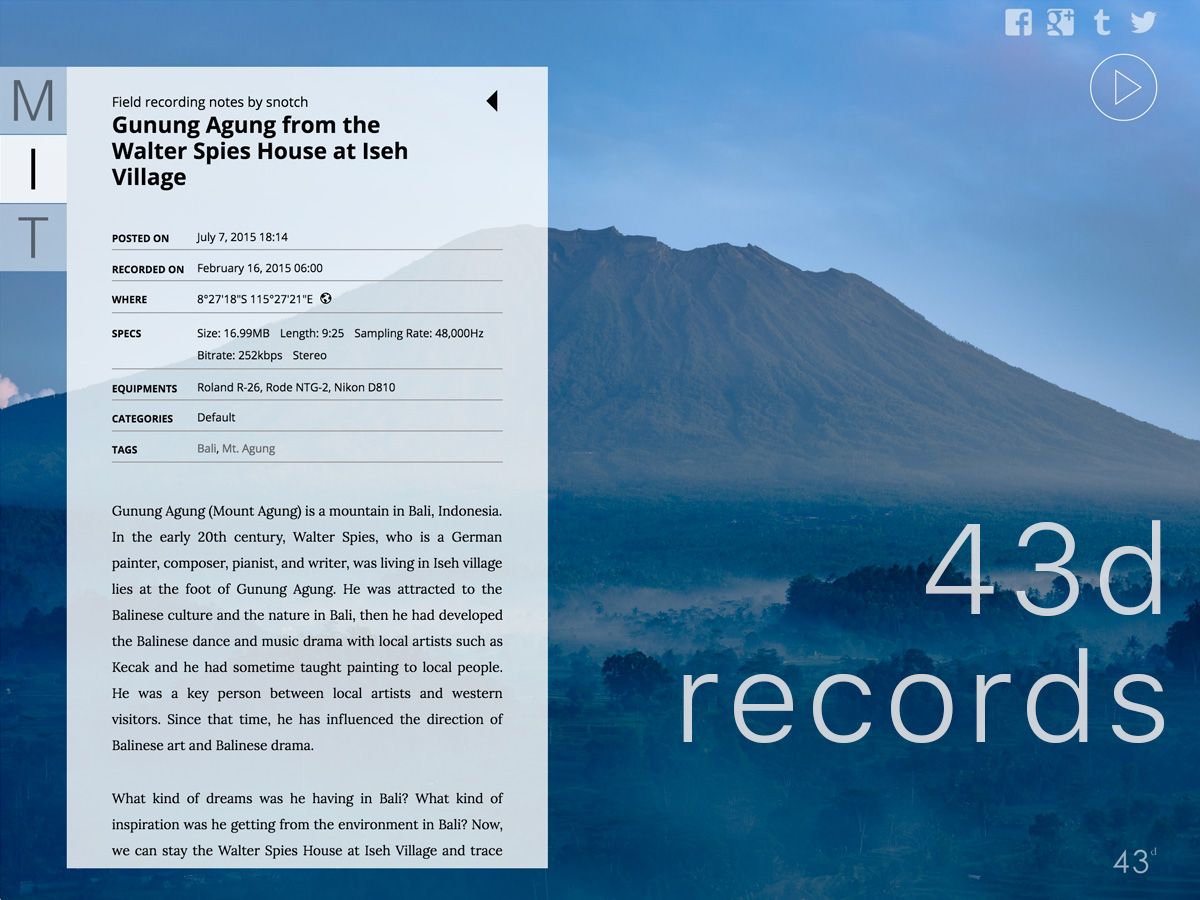
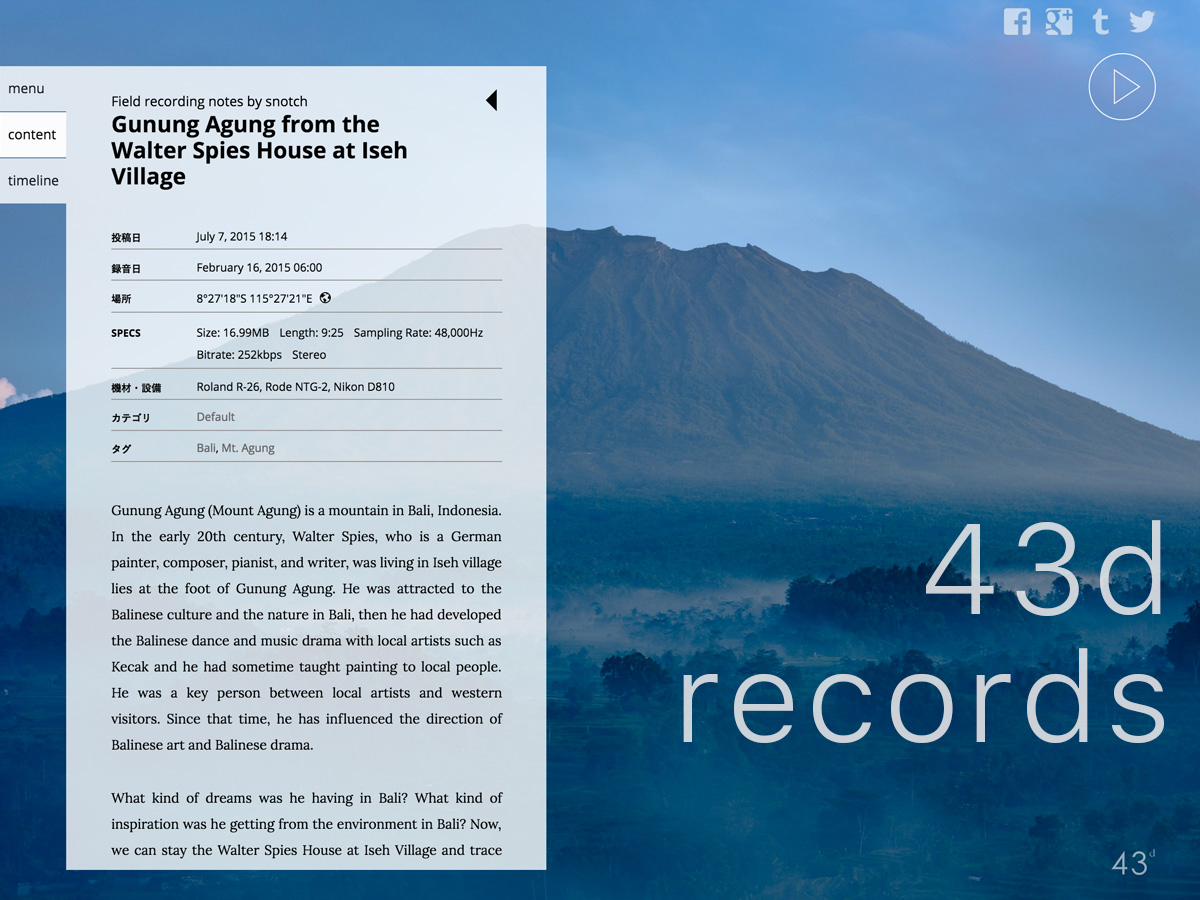
New version of 43d records - 0.9.4

diff --git a/style.min.css b/style.min.css
@@ -1,1 +1,1 @@
-@charset "UTF-8";@import url(//fonts.googleapis.com/css?family=Open+Sans:700,300,400);@import url(//fonts.googleapis.com/css?family=Lora:400,700,400italic,700italic);html{font-size:3rem}body{font-family:'Open Sans',Helvetica,Arial,"游ゴシック","YuGothic","ヒラギノ角ゴ ProN W3","Hiragino Kaku Gothic ProN","メイリオ",Meiryo,Osaka,"ＭＳ Ｐゴシック","MS PGothic",sans-serif;word-wrap:break-word}body.error404{padding:4rem}p{line-height:1.2rem;text-align:justify;text-justify:inter-ideograph}.p43d_records_show{background-size:cover}.p43d_records_show #main_menu{position:fixed;z-index:100;list-style:none;margin:0;padding:0;left:0;top:3rem}.p43d_records_show #main_menu li{width:3rem;height:3rem;margin:0 0 1px 0;position:relative;cursor:pointer}.p43d_records_show #main_menu li img{width:100%;height:100%;position:absolute;-moz-opacity:.5;-khtml-opacity:.5;-webkit-opacity:.5;opacity:.5;-ms-filter:alpha(opacity=50);filter:alpha(opacity=50);-moz-transition-duration:.2s;-webkit-transition-duration:.2s;-o-transition-duration:.2s;transition-duration:.2s}.p43d_records_show #main_menu li:hover img,.p43d_records_show #main_menu li.active img{-moz-opacity:1;-khtml-opacity:1;-webkit-opacity:1;opacity:1;-ms-filter:alpha(opacity=100);filter:alpha(opacity=100)}.p43d_records_show #main_menu li::before{content:"";margin:0;width:100%;height:100%;position:absolute;background-color:#fff;-moz-opacity:.5;-khtml-opacity:.5;-webkit-opacity:.5;opacity:.5;-ms-filter:alpha(opacity=50);filter:alpha(opacity=50);-moz-transition-duration:.2s;-webkit-transition-duration:.2s;-o-transition-duration:.2s;transition-duration:.2s}.p43d_records_show #main_menu li:hover::before,.p43d_records_show #main_menu li.active::before{-moz-opacity:.9;-khtml-opacity:.9;-webkit-opacity:.9;opacity:.9;-ms-filter:alpha(opacity=90);filter:alpha(opacity=90)}.p43d_records_show #social{position:fixed;top:.4rem;right:2rem;z-index:600;list-style:none;margin:0;padding:0}.p43d_records_show #social li{width:1.2rem;height:1.2rem;cursor:pointer;display:inline-block;margin-left:.4rem;position:relative}.p43d_records_show #social li a{-moz-opacity:.6;-khtml-opacity:.6;-webkit-opacity:.6;opacity:.6;-ms-filter:alpha(opacity=60);filter:alpha(opacity=60);-moz-transition-duration:.2s;-webkit-transition-duration:.2s;-o-transition-duration:.2s;transition-duration:.2s}.p43d_records_show #social li a img{width:100%;height:100%;position:absolute}.p43d_records_show #social li a:hover{-moz-opacity:1;-khtml-opacity:1;-webkit-opacity:1;opacity:1;-ms-filter:alpha(opacity=100);filter:alpha(opacity=100)}.p43d_records_show #ctrl_btns{position:fixed;top:2.4rem;right:2rem;z-index:600;list-style:none;margin:0;padding:0}.p43d_records_show #ctrl_btns li{width:3rem;height:3rem;cursor:pointer;-moz-transition-duration:0;-webkit-transition-duration:0;-o-transition-duration:0;transition-duration:0}.p43d_records_show #ctrl_btns li img{width:100%;height:100%;position:absolute}.p43d_records_show #ctrl_btns li img.default{display:block}.p43d_records_show #ctrl_btns li img.over{display:none}.p43d_records_show #ctrl_btns li:hover img.default{display:none}.p43d_records_show #ctrl_btns li:hover img.over{display:block}.p43d_records_show #bg{margin:0;position:fixed;top:0;left:0;right:0;bottom:0;background-repeat:no-repeat;background-size:cover;background-position:center;z-index:5}.p43d_records_show p#logo_43d{position:fixed;right:2rem;bottom:1rem;margin:0;z-index:100}.p43d_records_show p#logo_43d a{-moz-opacity:.6;-khtml-opacity:.6;-webkit-opacity:.6;opacity:.6;-ms-filter:alpha(opacity=60);filter:alpha(opacity=60);-moz-transition-duration:.2s;-webkit-transition-duration:.2s;-o-transition-duration:.2s;transition-duration:.2s}.p43d_records_show p#logo_43d a img{width:2rem;height:auto}.p43d_records_show p#logo_43d a:hover{-moz-opacity:1;-khtml-opacity:1;-webkit-opacity:1;opacity:1;-ms-filter:alpha(opacity=100);filter:alpha(opacity=100)}.p43d_records_show #info_content{z-index:500;position:fixed;top:3rem;bottom:1.5rem;left:3rem;width:40%;min-width:360px;overflow:auto;display:block;-moz-opacity:0;-khtml-opacity:0;-webkit-opacity:0;opacity:0;-ms-filter:alpha(opacity=0);filter:alpha(opacity=0)}.p43d_records_show #info_content .close_btn{position:absolute;margin:0;width:1rem;height:1rem;top:1rem;right:2rem;cursor:pointer;z-index:610;-moz-opacity:0;-khtml-opacity:0;-webkit-opacity:0;opacity:0;-ms-filter:alpha(opacity=0);filter:alpha(opacity=0)}.p43d_records_show #info_content .close_btn img{width:100%;height:100%}.p43d_records_show #info_content .close_btn:hover img{-moz-opacity:.6;-khtml-opacity:.6;-webkit-opacity:.6;opacity:.6;-ms-filter:alpha(opacity=60);filter:alpha(opacity=60)}.p43d_records_show #info_content .outer_container{position:relative}.p43d_records_show #info_content .bg{position:absolute;top:0;left:0;bottom:0;right:0;background-color:#fff;-moz-opacity:.8;-khtml-opacity:.8;-webkit-opacity:.8;opacity:.8;-ms-filter:alpha(opacity=80);filter:alpha(opacity=80);z-index:-1}.p43d_records_show #info_content .inner_container{padding:1rem 2rem 2rem;-moz-opacity:0;-khtml-opacity:0;-webkit-opacity:0;opacity:0;-ms-filter:alpha(opacity=0);filter:alpha(opacity=0)}.p43d_records_show #info_content h1{font-weight:normal;font-size:.6rem;margin:.2rem 1rem .1rem 0;line-height:1.2}.p43d_records_show #info_content h1 a{text-decoration:none;color:#000}.p43d_records_show #info_content h1 a:hover{background-color:#AAA}.p43d_records_show #info_content h2{margin:0 0 1.8rem;padding-right:2rem;font-size:1rem;line-height:1.2}.p43d_records_show #info_content h3,.p43d_records_show #info_content h4{margin:0 0 1.4rem;font-size:.85rem;line-height:1.2}.p43d_records_show #info_content h5,.p43d_records_show #info_content h6{margin:0 0 1.2rem;font-size:.7rem;line-height:1.2}.p43d_records_show #info_content p.info span.label{position:absolute;left:0;padding:.1rem .5rem 0 0;font-size:.4rem;font-weight:bold;text-transform:uppercase}.p43d_records_show #info_content p.info{position:relative;margin:.5rem 0 0;padding:0 0 .3rem 3.8rem;border-bottom:1px solid #999;font-family:'Open Sans',Helvetica,Arial,"游ゴシック","YuGothic","ヒラギノ角ゴ ProN W3","Hiragino Kaku Gothic ProN","メイリオ",Meiryo,Osaka,"ＭＳ Ｐゴシック","MS PGothic",sans-serif;font-size:.5rem;line-height:1.1;vertical-align:top}.p43d_records_show #info_content p.info a.icon_link{display:inline-block;line-height:0;padding:0 0 0 .2rem}.p43d_records_show #info_content p.info a.icon_link:hover{background-color:transparent}.p43d_records_show #info_content p.info a{color:#000;text-decoration:none}.p43d_records_show #info_content p.info a:visited{color:#666}.p43d_records_show #info_content p.info a:hover{color:#000;background-color:#AAA}.p43d_records_show #info_content p.info img.geo_icon{width:.5rem;height:.5rem;margin:0;padding:0}.p43d_records_show #info_content dl.specs{margin:.2rem 0 0;padding:0 0 .3rem;line-height:1;border-bottom:1px solid #999}.p43d_records_show #info_content dl.specs dt{padding-top:.45rem;font-size:.4rem;font-weight:bold;float:left}.p43d_records_show #info_content dl.specs dd{margin-left:3.8rem}.p43d_records_show #info_content dl.specs dd ul{list-style:none;margin:0;padding:0}.p43d_records_show #info_content dl.specs dd ul li{display:inline-block;margin:0 .2rem 0 0;font-size:.5rem}.p43d_records_show #info_content div.content{margin:1.6rem 0}.p43d_records_show #info_content div.content p,.p43d_records_show #info_content div.content dt,.p43d_records_show #info_content div.content dd,.p43d_records_show #info_content div.content li{font-size:.6rem;font-family:Lora,"游明朝体","Yu Mincho",YuMincho,"ヒラギノ明朝 ProN W3","Hiragino Mincho Pro","HG明朝E",serif}.p43d_records_show #info_content div.content p{margin:1.2rem 0}.p43d_records_show #info_content div.content .wp-caption p{margin:.2rem 0 0}.p43d_records_show #info_content div.content li{margin:.3rem 0}.p43d_records_show #info_content div.content table,.p43d_records_show #info_content div.content td,.p43d_records_show #info_content div.content th{border:1px solid #d1d1d1}.p43d_records_show #info_content div.content table{margin:1.4rem 0;border-width:1px 0 0 1px;border-collapse:separate}.p43d_records_show #info_content div.content th{padding:.2rem .4rem;font-size:.6rem;font-weight:bold;font-family:'Open Sans',Helvetica,Arial,"游ゴシック","YuGothic","ヒラギノ角ゴ ProN W3","Hiragino Kaku Gothic ProN","メイリオ",Meiryo,Osaka,"ＭＳ Ｐゴシック","MS PGothic",sans-serif;border-width:0 1px 1px 0}.p43d_records_show #info_content div.content td{padding:.2rem .4rem;font-size:.6rem;font-family:Lora,"游明朝体","Yu Mincho",YuMincho,"ヒラギノ明朝 ProN W3","Hiragino Mincho Pro","HG明朝E",serif;border-width:0 1px 1px 0}.p43d_records_show #info_content div.content pre{font-size:.6rem;font-family:'Open Sans',Helvetica,Arial,"游ゴシック","YuGothic","ヒラギノ角ゴ ProN W3","Hiragino Kaku Gothic ProN","メイリオ",Meiryo,Osaka,"ＭＳ Ｐゴシック","MS PGothic",sans-serif}.p43d_records_show #info_content div.content address{font-size:.6rem;font-style:italic;font-family:'Open Sans',Helvetica,Arial,"游ゴシック","YuGothic","ヒラギノ角ゴ ProN W3","Hiragino Kaku Gothic ProN","メイリオ",Meiryo,Osaka,"ＭＳ Ｐゴシック","MS PGothic",sans-serif}.p43d_records_show #info_content div.content img,.p43d_records_show #info_content div.content video,.p43d_records_show #info_content div.content iframe{max-width:100%}.p43d_records_show #info_content div.content img{height:auto}.p43d_records_show #info_content div.content div.post_link_container{margin-top:1rem;border-top:.3rem solid #AAA}.p43d_records_show #info_content div.content div.post_link_container p.post_link{margin:.6rem 0;line-height:1.2;padding:.7rem 0 0 .5rem;position:relative}.p43d_records_show #info_content div.content div.post_link_container p.post_link span{display:block;position:absolute;top:0;left:0;font-family:'Open Sans',Helvetica,Arial,"游ゴシック","YuGothic","ヒラギノ角ゴ ProN W3","Hiragino Kaku Gothic ProN","メイリオ",Meiryo,Osaka,"ＭＳ Ｐゴシック","MS PGothic",sans-serif;font-size:.5rem;font-weight:bold}.p43d_records_show #info_content div.content div.post_link_container p.post_link a{color:#000;text-decoration:none}.p43d_records_show #info_content div.content div.post_link_container p.post_link a:visited{color:#666}.p43d_records_show #info_content div.content div.post_link_container p.post_link a:hover{color:#000;background-color:#AAA}.p43d_records_show #info_content div.content h3#comments{font-size:.8rem;line-height:1.2;padding-top:.4rem;border-top:.3rem solid #AAA}.p43d_records_show #info_content div.content ol.commentlist{margin:0;font-size:.7rem}.p43d_records_show #info_content div.content ol.commentlist div.comment-author,.p43d_records_show #info_content div.content ol.commentlist div.comment-meta,.p43d_records_show #info_content div.content ol.commentlist div.reply{font-size:.6rem;margin:.1rem 0;line-height:1}.p43d_records_show #info_content div.content ol.commentlist li{margin-bottom:1rem;padding-bottom:1rem;border-bottom:1px solid #666}.p43d_records_show #info_content div.content ol.commentlist li p{margin:.4rem 0}.p43d_records_show #info_content div.content ol.commentlist li.bypostauthor{display:list-item}.p43d_records_show #info_content div.content div#respond{margin-top:2rem;border-top:.3rem solid #AAA}.p43d_records_show #info_content div.content div#respond h3{font-size:.7rem;line-height:1.2;margin:.6rem 0}.p43d_records_show #info_content div.content div#respond p{font-size:.6rem;margin:.4rem 0}.p43d_records_show #info_content div.content div#respond #commentform label{display:block}.p43d_records_show #info_content div.content div#respond #commentform textarea{max-width:100%;width:100%;height:5rem}.p43d_records_show #info_content div.content div#respond #commentform p input{font-size:.6rem;font-weight:normal;font-family:'Open Sans',Helvetica,Arial,"游ゴシック","YuGothic","ヒラギノ角ゴ ProN W3","Hiragino Kaku Gothic ProN","メイリオ",Meiryo,Osaka,"ＭＳ Ｐゴシック","MS PGothic",sans-serif}.p43d_records_show #menulist{z-index:500;position:fixed;top:3rem;bottom:1.5rem;left:3rem;width:40%;min-width:360px;overflow:auto;display:none}.p43d_records_show #menulist .close_btn{position:absolute;margin:0;width:1rem;height:1rem;top:1rem;right:2rem;cursor:pointer;z-index:610;-moz-opacity:0;-khtml-opacity:0;-webkit-opacity:0;opacity:0;-ms-filter:alpha(opacity=0);filter:alpha(opacity=0)}.p43d_records_show #menulist .close_btn img{width:100%;height:100%}.p43d_records_show #menulist .close_btn:hover img{-moz-opacity:.6;-khtml-opacity:.6;-webkit-opacity:.6;opacity:.6;-ms-filter:alpha(opacity=60);filter:alpha(opacity=60)}.p43d_records_show #menulist .outer_container{position:relative}.p43d_records_show #menulist .bg{position:absolute;top:0;left:0;bottom:0;right:0;width:100%;height:100%;background-color:#fff;-moz-opacity:.8;-khtml-opacity:.8;-webkit-opacity:.8;opacity:.8;-ms-filter:alpha(opacity=80);filter:alpha(opacity=80);z-index:-1}.p43d_records_show #menulist .inner_container{padding:1rem 2rem 2rem;min-height:8rem;-moz-opacity:0;-khtml-opacity:0;-webkit-opacity:0;opacity:0;-ms-filter:alpha(opacity=0);filter:alpha(opacity=0)}.p43d_records_show #menulist h1{font-size:1rem;margin:.2rem 1rem .1rem 0;line-height:1.2}.p43d_records_show #menulist h1 a{text-decoration:none;color:#000}.p43d_records_show #menulist h1 a:hover{background-color:#AAA}.p43d_records_show #menulist h3{margin:1.6rem 0 .4rem;font-size:.8rem;color:#777}.p43d_records_show #menulist p.description{font-size:.6rem;line-height:1.4;color:#555;margin:.2rem 0 1rem}.p43d_records_show #menulist ul#posts_list{list-style:none;margin:0;padding:0}.p43d_records_show #menulist ul#posts_list li{font-size:.6rem;margin-bottom:.4rem}.p43d_records_show #menulist ul#posts_list li span{display:inline-block}.p43d_records_show #menulist ul#posts_list li span.title{display:block;font-family:Lora,"游明朝体","Yu Mincho",YuMincho,"ヒラギノ明朝 ProN W3","Hiragino Mincho Pro","HG明朝E",serif;font-size:.7rem}.p43d_records_show #menulist ul#posts_list li span.title a{color:#000;text-decoration:none}.p43d_records_show #menulist ul#posts_list li span.title a:visited{color:#666}.p43d_records_show #menulist ul#posts_list li span.title a:hover{color:#000;background-color:#AAA}.p43d_records_show #menulist ul#posts_list li span.label{font-weight:bold;font-size:.4rem;padding:0 .2rem 0 0;color:#555}.p43d_records_show #menulist ul#posts_list li span.subinfo{font-size:.5rem;color:#555}.p43d_records_show #menulist p#posts_list_navi{border-top:.3rem solid #AAA}.p43d_records_show #menulist p#posts_list_navi a{display:block;text-decoration:none;font-family:'Open Sans',Helvetica,Arial,"游ゴシック","YuGothic","ヒラギノ角ゴ ProN W3","Hiragino Kaku Gothic ProN","メイリオ",Meiryo,Osaka,"ＭＳ Ｐゴシック","MS PGothic",sans-serif;font-size:.5rem;font-weight:bold}.p43d_records_show #menulist p#posts_list_navi a:hover{text-decoration:underline}.p43d_records_show #menulist p#posts_list_navi a.recent{float:left}.p43d_records_show #menulist p#posts_list_navi a.past{float:right}.p43d_records_show #menulist p#posts_list_navi a.hidden{display:none}.p43d_records_show #menulist ul#static_pages{padding:.5rem 0;border-top:.3rem solid #AAA;list-style:none;margin:1.4rem 0 0}.p43d_records_show #menulist ul#static_pages h3{margin:.2rem 0 .8rem}.p43d_records_show #menulist ul#static_pages ul{padding:0 0 0 1rem}.p43d_records_show #menulist ul#static_pages ul li{font-size:.65rem}.p43d_records_show #menulist ul#static_pages ul li a{color:#000;text-decoration:none !important}.p43d_records_show #menulist ul#static_pages ul li a:visited{color:#666}.p43d_records_show #menulist ul#static_pages ul li a:hover{color:#000;background-color:#AAA}.p43d_records_show #menulist h3.post_categories,.p43d_records_show #menulist h3.post_tags{padding-top:.5rem;border-top:.3rem solid #AAA}.p43d_records_show #menulist p.post_categories,.p43d_records_show #menulist p.post_tags{margin:.4rem 0;font-size:.65rem}.p43d_records_show #menulist p.post_categories a,.p43d_records_show #menulist p.post_tags a{color:#000;text-decoration:none !important}.p43d_records_show #menulist p.post_categories a:visited,.p43d_records_show #menulist p.post_tags a:visited{color:#666}.p43d_records_show #menulist p.post_categories a:hover,.p43d_records_show #menulist p.post_tags a:hover{color:#000;background-color:#AAA}.p43d_records_show #timeline{z-index:500;position:fixed;bottom:3rem;left:2rem;right:2rem;height:3.4rem;overflow:auto;display:none}.p43d_records_show #timeline .bg{position:absolute;top:0;left:0;bottom:0;right:0;width:100%;height:100%;background-color:#fff;-moz-opacity:.6;-khtml-opacity:.6;-webkit-opacity:.6;opacity:.6;-ms-filter:alpha(opacity=60);filter:alpha(opacity=60);z-index:-1}.p43d_records_show #timeline .buttons{position:absolute;top:.3rem;right:.3rem;list-style:none;margin:0;padding:0}.p43d_records_show #timeline .buttons li{width:1.4rem;height:1.4rem;cursor:pointer;margin:0;padding:0}.p43d_records_show #timeline .buttons li img{width:100%;height:100%}.p43d_records_show #timeline .buttons li:hover img{-moz-opacity:.6;-khtml-opacity:.6;-webkit-opacity:.6;opacity:.6;-ms-filter:alpha(opacity=60);filter:alpha(opacity=60)}.p43d_records_show #timeline .if{position:absolute;top:.6rem;right:2.3rem;left:.6rem}.p43d_records_show #timeline .if .cursor{width:1rem;height:1rem;cursor:pointer;margin:0;position:absolute;background-image:url('img/icon_tl_cursor.svg');background-repeat:no-repeat;background-size:contain}.p43d_records_show #timeline .if .cursor:hover{-moz-opacity:.6;-khtml-opacity:.6;-webkit-opacity:.6;opacity:.6;-ms-filter:alpha(opacity=60);filter:alpha(opacity=60)}.p43d_records_show #timeline .if .horizontal_bar{height:2px;background-color:#333;margin:1rem .5rem 0}.p43d_records_show #timeline .if .current_time,.p43d_records_show #timeline .if .total_time{margin:0;font-size:.6rem;position:absolute;top:1.3rem}.p43d_records_show #timeline .if .total_time{right:0}@media(max-width:2880px){html{font-size:2.8rem}}@media(max-width:1920px){html{font-size:2rem}}@media(max-width:1600px){html{font-size:1.6rem}}@media(max-width:1440px){html{font-size:1.4rem}}@media(max-width:1024px){html{font-size:1.25rem}}@media(max-width:768px){.p43d_records_show #ctrl_btns li:hover img.default{display:block}.p43d_records_show #ctrl_btns li:hover img.over{display:none}.p43d_records_show #info_content,.p43d_records_show #menulist{width:100%;bottom:0}}.hidden{display:none}.alignleft{display:inline;float:left;margin-right:1.2rem}.alignright{display:inline;float:right;margin-left:1.2rem}.aligncenter{clear:both;display:block;margin:0 auto}.wp-caption{margin-bottom:1rem;max-width:100%}.wp-caption-text{text-align:center}.page-links{clear:both;font-family:'Open Sans',Helvetica,Arial,"游ゴシック","YuGothic","ヒラギノ角ゴ ProN W3","Hiragino Kaku Gothic ProN","メイリオ",Meiryo,Osaka,"ＭＳ Ｐゴシック","MS PGothic",sans-serif;margin:0 0 1.75rem}.page-links a,.page-links>span{border:1px solid #d1d1d1;display:inline-block;font-size:.7rem;height:1.85rem;line-height:1.69rem;margin-right:.31rem;text-align:center;padding:0 .5rem}.page-links a{background-color:#666;border-color:#666;color:#fff;text-decoration:none}.page-links a:hover,.page-links a:focus{background-color:#222;color:#fff}.page-links>.page-links-title{border:0;color:#1a1a1a;height:auto;margin:0;padding-right:.62rem;width:auto}.gallery-caption{display:block}.sticky{display:block}.bypostauthor{display:block}.screen-reader-text{clip:rect(1px,1px,1px,1px);width:1px;height:1px;overflow:hidden;position:absolute !important}.size-auto,.size-full,.size-large,.size-medium,.size-thumbnail{max-width:100%;height:auto}
+@charset "UTF-8";@import url(//fonts.googleapis.com/css?family=Open+Sans:700,300,400);@import url(//fonts.googleapis.com/css?family=Lora:400,700,400italic,700italic);html{font-size:3rem}body{font-family:'Open Sans',Helvetica,Arial,"游ゴシック","YuGothic","ヒラギノ角ゴ ProN W3","Hiragino Kaku Gothic ProN","メイリオ",Meiryo,Osaka,"ＭＳ Ｐゴシック","MS PGothic",sans-serif;word-wrap:break-word}body.error404{padding:4rem}p{line-height:1.2rem;text-align:justify;text-justify:inter-ideograph}.p43d_records_show{background-size:cover}.p43d_records_show #main_menu{position:fixed;z-index:100;list-style:none;margin:0;padding:0;left:0;top:3rem}.p43d_records_show #main_menu li{width:3rem;height:2rem;margin:0 0 1px 0;position:relative;cursor:pointer;font-size:.6rem;padding:.6rem 0 0 .4rem;color:#000;box-sizing:border-box;background-color:#fff;-moz-opacity:.8;-khtml-opacity:.8;-webkit-opacity:.8;opacity:.8;-ms-filter:alpha(opacity=80);filter:alpha(opacity=80);-moz-transition-duration:.2s;-webkit-transition-duration:.2s;-o-transition-duration:.2s;transition-duration:.2s}.p43d_records_show #main_menu li:hover,.p43d_records_show #main_menu li.active{-moz-opacity:.98;-khtml-opacity:.98;-webkit-opacity:.98;opacity:.98;-ms-filter:alpha(opacity=98);filter:alpha(opacity=98)}.p43d_records_show #social{position:fixed;top:.4rem;right:2rem;z-index:600;list-style:none;margin:0;padding:0}.p43d_records_show #social li{width:1.2rem;height:1.2rem;cursor:pointer;display:inline-block;margin-left:.4rem;position:relative}.p43d_records_show #social li a{-moz-opacity:.6;-khtml-opacity:.6;-webkit-opacity:.6;opacity:.6;-ms-filter:alpha(opacity=60);filter:alpha(opacity=60);-moz-transition-duration:.2s;-webkit-transition-duration:.2s;-o-transition-duration:.2s;transition-duration:.2s}.p43d_records_show #social li a img{width:100%;height:100%;position:absolute}.p43d_records_show #social li a:hover{-moz-opacity:1;-khtml-opacity:1;-webkit-opacity:1;opacity:1;-ms-filter:alpha(opacity=100);filter:alpha(opacity=100)}.p43d_records_show #ctrl_btns{position:fixed;top:2.4rem;right:2rem;z-index:600;list-style:none;margin:0;padding:0}.p43d_records_show #ctrl_btns li{width:3rem;height:3rem;cursor:pointer;-moz-transition-duration:0;-webkit-transition-duration:0;-o-transition-duration:0;transition-duration:0}.p43d_records_show #ctrl_btns li img{width:100%;height:100%;position:absolute}.p43d_records_show #ctrl_btns li img.default{display:block}.p43d_records_show #ctrl_btns li img.over{display:none}.p43d_records_show #ctrl_btns li:hover img.default{display:none}.p43d_records_show #ctrl_btns li:hover img.over{display:block}.p43d_records_show #bg{margin:0;position:fixed;top:0;left:0;right:0;bottom:0;background-repeat:no-repeat;background-size:cover;background-position:center;z-index:5}.p43d_records_show p#logo_43d{position:fixed;right:2rem;bottom:1rem;margin:0;z-index:100}.p43d_records_show p#logo_43d a{-moz-opacity:.6;-khtml-opacity:.6;-webkit-opacity:.6;opacity:.6;-ms-filter:alpha(opacity=60);filter:alpha(opacity=60);-moz-transition-duration:.2s;-webkit-transition-duration:.2s;-o-transition-duration:.2s;transition-duration:.2s}.p43d_records_show p#logo_43d a img{width:2rem;height:auto}.p43d_records_show p#logo_43d a:hover{-moz-opacity:1;-khtml-opacity:1;-webkit-opacity:1;opacity:1;-ms-filter:alpha(opacity=100);filter:alpha(opacity=100)}.p43d_records_show #info_content{z-index:500;position:fixed;top:3rem;bottom:1.5rem;left:3rem;width:40%;min-width:360px;overflow:auto;display:block;-moz-opacity:0;-khtml-opacity:0;-webkit-opacity:0;opacity:0;-ms-filter:alpha(opacity=0);filter:alpha(opacity=0)}.p43d_records_show #info_content .close_btn{position:absolute;margin:0;width:1rem;height:1rem;top:1rem;right:2rem;cursor:pointer;z-index:610;-moz-opacity:0;-khtml-opacity:0;-webkit-opacity:0;opacity:0;-ms-filter:alpha(opacity=0);filter:alpha(opacity=0)}.p43d_records_show #info_content .close_btn img{width:100%;height:100%}.p43d_records_show #info_content .close_btn:hover img{-moz-opacity:.6;-khtml-opacity:.6;-webkit-opacity:.6;opacity:.6;-ms-filter:alpha(opacity=60);filter:alpha(opacity=60)}.p43d_records_show #info_content .outer_container{position:relative}.p43d_records_show #info_content .bg{position:absolute;top:0;left:0;bottom:0;right:0;background-color:#fff;-moz-opacity:.8;-khtml-opacity:.8;-webkit-opacity:.8;opacity:.8;-ms-filter:alpha(opacity=80);filter:alpha(opacity=80);z-index:-1}.p43d_records_show #info_content .inner_container{padding:1rem 2rem 2rem;-moz-opacity:0;-khtml-opacity:0;-webkit-opacity:0;opacity:0;-ms-filter:alpha(opacity=0);filter:alpha(opacity=0)}.p43d_records_show #info_content h1{font-weight:normal;font-size:.6rem;margin:.2rem 1rem .1rem 0;line-height:1.2}.p43d_records_show #info_content h1 a{text-decoration:none;color:#000}.p43d_records_show #info_content h1 a:hover{background-color:#AAA}.p43d_records_show #info_content h2{margin:0 0 1.8rem;padding-right:2rem;font-size:1rem;line-height:1.2}.p43d_records_show #info_content h3,.p43d_records_show #info_content h4{margin:0 0 1.4rem;font-size:.85rem;line-height:1.2}.p43d_records_show #info_content h5,.p43d_records_show #info_content h6{margin:0 0 1.2rem;font-size:.7rem;line-height:1.2}.p43d_records_show #info_content p.info span.label{position:absolute;left:0;padding:.1rem .5rem 0 0;font-size:.4rem;font-weight:bold;text-transform:uppercase}.p43d_records_show #info_content p.info{position:relative;margin:.5rem 0 0;padding:0 0 .3rem 3.8rem;border-bottom:1px solid #999;font-family:'Open Sans',Helvetica,Arial,"游ゴシック","YuGothic","ヒラギノ角ゴ ProN W3","Hiragino Kaku Gothic ProN","メイリオ",Meiryo,Osaka,"ＭＳ Ｐゴシック","MS PGothic",sans-serif;font-size:.5rem;line-height:1.1;vertical-align:top}.p43d_records_show #info_content p.info a.icon_link{display:inline-block;line-height:0;padding:0 0 0 .2rem}.p43d_records_show #info_content p.info a.icon_link:hover{background-color:transparent}.p43d_records_show #info_content p.info a{color:#000;text-decoration:none}.p43d_records_show #info_content p.info a:visited{color:#666}.p43d_records_show #info_content p.info a:hover{color:#000;background-color:#AAA}.p43d_records_show #info_content p.info img.geo_icon{width:.5rem;height:.5rem;margin:0;padding:0}.p43d_records_show #info_content dl.specs{margin:.2rem 0 0;padding:0 0 .3rem;line-height:1;border-bottom:1px solid #999}.p43d_records_show #info_content dl.specs dt{padding-top:.45rem;font-size:.4rem;font-weight:bold;float:left}.p43d_records_show #info_content dl.specs dd{margin-left:3.8rem}.p43d_records_show #info_content dl.specs dd ul{list-style:none;margin:0;padding:0}.p43d_records_show #info_content dl.specs dd ul li{display:inline-block;margin:0 .2rem 0 0;font-size:.5rem}.p43d_records_show #info_content div.content{margin:1.6rem 0}.p43d_records_show #info_content div.content p,.p43d_records_show #info_content div.content dt,.p43d_records_show #info_content div.content dd,.p43d_records_show #info_content div.content li{font-size:.6rem;font-family:Lora,"游明朝体","Yu Mincho",YuMincho,"ヒラギノ明朝 ProN W3","Hiragino Mincho Pro","HG明朝E",serif}.p43d_records_show #info_content div.content p{margin:1.2rem 0}.p43d_records_show #info_content div.content .wp-caption p{margin:.2rem 0 0}.p43d_records_show #info_content div.content li{margin:.3rem 0}.p43d_records_show #info_content div.content table,.p43d_records_show #info_content div.content td,.p43d_records_show #info_content div.content th{border:1px solid #d1d1d1}.p43d_records_show #info_content div.content table{margin:1.4rem 0;border-width:1px 0 0 1px;border-collapse:separate}.p43d_records_show #info_content div.content th{padding:.2rem .4rem;font-size:.6rem;font-weight:bold;font-family:'Open Sans',Helvetica,Arial,"游ゴシック","YuGothic","ヒラギノ角ゴ ProN W3","Hiragino Kaku Gothic ProN","メイリオ",Meiryo,Osaka,"ＭＳ Ｐゴシック","MS PGothic",sans-serif;border-width:0 1px 1px 0}.p43d_records_show #info_content div.content td{padding:.2rem .4rem;font-size:.6rem;font-family:Lora,"游明朝体","Yu Mincho",YuMincho,"ヒラギノ明朝 ProN W3","Hiragino Mincho Pro","HG明朝E",serif;border-width:0 1px 1px 0}.p43d_records_show #info_content div.content pre{font-size:.6rem;font-family:'Open Sans',Helvetica,Arial,"游ゴシック","YuGothic","ヒラギノ角ゴ ProN W3","Hiragino Kaku Gothic ProN","メイリオ",Meiryo,Osaka,"ＭＳ Ｐゴシック","MS PGothic",sans-serif}.p43d_records_show #info_content div.content address{font-size:.6rem;font-style:italic;font-family:'Open Sans',Helvetica,Arial,"游ゴシック","YuGothic","ヒラギノ角ゴ ProN W3","Hiragino Kaku Gothic ProN","メイリオ",Meiryo,Osaka,"ＭＳ Ｐゴシック","MS PGothic",sans-serif}.p43d_records_show #info_content div.content img,.p43d_records_show #info_content div.content video,.p43d_records_show #info_content div.content iframe{max-width:100%}.p43d_records_show #info_content div.content img{height:auto}.p43d_records_show #info_content div.content div.post_link_container{margin-top:1rem;border-top:.3rem solid #AAA}.p43d_records_show #info_content div.content div.post_link_container p.post_link{margin:.6rem 0;line-height:1.2;padding:.7rem 0 0 .5rem;position:relative}.p43d_records_show #info_content div.content div.post_link_container p.post_link span{display:block;position:absolute;top:0;left:0;font-family:'Open Sans',Helvetica,Arial,"游ゴシック","YuGothic","ヒラギノ角ゴ ProN W3","Hiragino Kaku Gothic ProN","メイリオ",Meiryo,Osaka,"ＭＳ Ｐゴシック","MS PGothic",sans-serif;font-size:.5rem;font-weight:bold}.p43d_records_show #info_content div.content div.post_link_container p.post_link a{color:#000;text-decoration:none}.p43d_records_show #info_content div.content div.post_link_container p.post_link a:visited{color:#666}.p43d_records_show #info_content div.content div.post_link_container p.post_link a:hover{color:#000;background-color:#AAA}.p43d_records_show #info_content div.content h3#comments{font-size:.8rem;line-height:1.2;padding-top:.4rem;border-top:.3rem solid #AAA}.p43d_records_show #info_content div.content ol.commentlist{margin:0;font-size:.7rem}.p43d_records_show #info_content div.content ol.commentlist div.comment-author,.p43d_records_show #info_content div.content ol.commentlist div.comment-meta,.p43d_records_show #info_content div.content ol.commentlist div.reply{font-size:.6rem;margin:.1rem 0;line-height:1}.p43d_records_show #info_content div.content ol.commentlist li{margin-bottom:1rem;padding-bottom:1rem;border-bottom:1px solid #666}.p43d_records_show #info_content div.content ol.commentlist li p{margin:.4rem 0}.p43d_records_show #info_content div.content ol.commentlist li.bypostauthor{display:list-item}.p43d_records_show #info_content div.content div#respond{margin-top:2rem;border-top:.3rem solid #AAA}.p43d_records_show #info_content div.content div#respond h3{font-size:.7rem;line-height:1.2;margin:.6rem 0}.p43d_records_show #info_content div.content div#respond p{font-size:.6rem;margin:.4rem 0}.p43d_records_show #info_content div.content div#respond #commentform label{display:block}.p43d_records_show #info_content div.content div#respond #commentform textarea{max-width:100%;width:100%;height:5rem}.p43d_records_show #info_content div.content div#respond #commentform p input{font-size:.6rem;font-weight:normal;font-family:'Open Sans',Helvetica,Arial,"游ゴシック","YuGothic","ヒラギノ角ゴ ProN W3","Hiragino Kaku Gothic ProN","メイリオ",Meiryo,Osaka,"ＭＳ Ｐゴシック","MS PGothic",sans-serif}.p43d_records_show #menulist{z-index:500;position:fixed;top:3rem;bottom:1.5rem;left:3rem;width:40%;min-width:360px;overflow:auto;display:none}.p43d_records_show #menulist .close_btn{position:absolute;margin:0;width:1rem;height:1rem;top:1rem;right:2rem;cursor:pointer;z-index:610;-moz-opacity:0;-khtml-opacity:0;-webkit-opacity:0;opacity:0;-ms-filter:alpha(opacity=0);filter:alpha(opacity=0)}.p43d_records_show #menulist .close_btn img{width:100%;height:100%}.p43d_records_show #menulist .close_btn:hover img{-moz-opacity:.6;-khtml-opacity:.6;-webkit-opacity:.6;opacity:.6;-ms-filter:alpha(opacity=60);filter:alpha(opacity=60)}.p43d_records_show #menulist .outer_container{position:relative}.p43d_records_show #menulist .bg{position:absolute;top:0;left:0;bottom:0;right:0;width:100%;height:100%;background-color:#fff;-moz-opacity:.8;-khtml-opacity:.8;-webkit-opacity:.8;opacity:.8;-ms-filter:alpha(opacity=80);filter:alpha(opacity=80);z-index:-1}.p43d_records_show #menulist .inner_container{padding:1rem 2rem 2rem;min-height:8rem;-moz-opacity:0;-khtml-opacity:0;-webkit-opacity:0;opacity:0;-ms-filter:alpha(opacity=0);filter:alpha(opacity=0)}.p43d_records_show #menulist h1{font-size:1rem;margin:.2rem 1rem .1rem 0;line-height:1.2}.p43d_records_show #menulist h1 a{text-decoration:none;color:#000}.p43d_records_show #menulist h1 a:hover{background-color:#AAA}.p43d_records_show #menulist h3{margin:1.6rem 0 .4rem;font-size:.8rem;color:#777}.p43d_records_show #menulist p.description{font-size:.6rem;line-height:1.4;color:#555;margin:.2rem 0 1rem}.p43d_records_show #menulist ul#posts_list{list-style:none;margin:0;padding:0}.p43d_records_show #menulist ul#posts_list li{font-size:.6rem;margin-bottom:.4rem}.p43d_records_show #menulist ul#posts_list li span{display:inline-block}.p43d_records_show #menulist ul#posts_list li span.title{display:block;font-family:Lora,"游明朝体","Yu Mincho",YuMincho,"ヒラギノ明朝 ProN W3","Hiragino Mincho Pro","HG明朝E",serif;font-size:.7rem}.p43d_records_show #menulist ul#posts_list li span.title a{color:#000;text-decoration:none}.p43d_records_show #menulist ul#posts_list li span.title a:visited{color:#666}.p43d_records_show #menulist ul#posts_list li span.title a:hover{color:#000;background-color:#AAA}.p43d_records_show #menulist ul#posts_list li span.label{font-weight:bold;font-size:.4rem;padding:0 .2rem 0 0;color:#555}.p43d_records_show #menulist ul#posts_list li span.subinfo{font-size:.5rem;color:#555}.p43d_records_show #menulist p#posts_list_navi{border-top:.3rem solid #AAA}.p43d_records_show #menulist p#posts_list_navi a{display:block;text-decoration:none;font-family:'Open Sans',Helvetica,Arial,"游ゴシック","YuGothic","ヒラギノ角ゴ ProN W3","Hiragino Kaku Gothic ProN","メイリオ",Meiryo,Osaka,"ＭＳ Ｐゴシック","MS PGothic",sans-serif;font-size:.5rem;font-weight:bold}.p43d_records_show #menulist p#posts_list_navi a:hover{text-decoration:underline}.p43d_records_show #menulist p#posts_list_navi a.recent{float:left}.p43d_records_show #menulist p#posts_list_navi a.past{float:right}.p43d_records_show #menulist p#posts_list_navi a.hidden{display:none}.p43d_records_show #menulist ul#static_pages{padding:.5rem 0;border-top:.3rem solid #AAA;list-style:none;margin:1.4rem 0 0}.p43d_records_show #menulist ul#static_pages h3{margin:.2rem 0 .8rem}.p43d_records_show #menulist ul#static_pages ul{padding:0 0 0 1rem}.p43d_records_show #menulist ul#static_pages ul li{font-size:.65rem}.p43d_records_show #menulist ul#static_pages ul li a{color:#000;text-decoration:none !important}.p43d_records_show #menulist ul#static_pages ul li a:visited{color:#666}.p43d_records_show #menulist ul#static_pages ul li a:hover{color:#000;background-color:#AAA}.p43d_records_show #menulist h3.post_categories,.p43d_records_show #menulist h3.post_tags{padding-top:.5rem;border-top:.3rem solid #AAA}.p43d_records_show #menulist p.post_categories,.p43d_records_show #menulist p.post_tags{margin:.4rem 0;font-size:.65rem}.p43d_records_show #menulist p.post_categories a,.p43d_records_show #menulist p.post_tags a{color:#000;text-decoration:none !important}.p43d_records_show #menulist p.post_categories a:visited,.p43d_records_show #menulist p.post_tags a:visited{color:#666}.p43d_records_show #menulist p.post_categories a:hover,.p43d_records_show #menulist p.post_tags a:hover{color:#000;background-color:#AAA}.p43d_records_show #timeline{z-index:500;position:fixed;bottom:3rem;left:2rem;right:2rem;height:3.4rem;overflow:auto;display:none}.p43d_records_show #timeline .bg{position:absolute;top:0;left:0;bottom:0;right:0;width:100%;height:100%;background-color:#fff;-moz-opacity:.6;-khtml-opacity:.6;-webkit-opacity:.6;opacity:.6;-ms-filter:alpha(opacity=60);filter:alpha(opacity=60);z-index:-1}.p43d_records_show #timeline .buttons{position:absolute;top:.3rem;right:.3rem;list-style:none;margin:0;padding:0}.p43d_records_show #timeline .buttons li{width:1.4rem;height:1.4rem;cursor:pointer;margin:0;padding:0}.p43d_records_show #timeline .buttons li img{width:100%;height:100%}.p43d_records_show #timeline .buttons li:hover img{-moz-opacity:.6;-khtml-opacity:.6;-webkit-opacity:.6;opacity:.6;-ms-filter:alpha(opacity=60);filter:alpha(opacity=60)}.p43d_records_show #timeline .if{position:absolute;top:.6rem;right:2.3rem;left:.6rem}.p43d_records_show #timeline .if .cursor{width:1rem;height:1rem;cursor:pointer;margin:0;position:absolute;background-image:url('img/icon_tl_cursor.svg');background-repeat:no-repeat;background-size:contain}.p43d_records_show #timeline .if .cursor:hover{-moz-opacity:.6;-khtml-opacity:.6;-webkit-opacity:.6;opacity:.6;-ms-filter:alpha(opacity=60);filter:alpha(opacity=60)}.p43d_records_show #timeline .if .horizontal_bar{height:2px;background-color:#333;margin:1rem .5rem 0}.p43d_records_show #timeline .if .current_time,.p43d_records_show #timeline .if .total_time{margin:0;font-size:.6rem;position:absolute;top:1.3rem}.p43d_records_show #timeline .if .total_time{right:0}@media(max-width:2880px){html{font-size:2.8rem}}@media(max-width:1920px){html{font-size:2rem}}@media(max-width:1600px){html{font-size:1.6rem}}@media(max-width:1440px){html{font-size:1.4rem}}@media(max-width:1024px){html{font-size:1.25rem}}@media(max-width:768px){.p43d_records_show #ctrl_btns{top:.4rem;right:.4rem}.p43d_records_show #ctrl_btns li{width:2.2rem;height:2.2rem}.p43d_records_show #ctrl_btns li:hover img.default{display:block}.p43d_records_show #ctrl_btns li:hover img.over{display:none}.p43d_records_show #info_content,.p43d_records_show #menulist{width:auto;min-width:260px;right:0}.p43d_records_show #info_content h2,.p43d_records_show #menulist h2{padding-right:1rem;font-size:.7rem}.p43d_records_show #info_content .close_btn,.p43d_records_show #menulist .close_btn{top:.5rem;right:.5rem}.p43d_records_show #info_content .inner_container,.p43d_records_show #menulist .inner_container{padding:1rem .5rem 1rem}}.hidden{display:none}.alignleft{display:inline;float:left;margin-right:1.2rem}.alignright{display:inline;float:right;margin-left:1.2rem}.aligncenter{clear:both;display:block;margin:0 auto}.wp-caption{margin-bottom:1rem;max-width:100%}.wp-caption-text{text-align:center}.page-links{clear:both;font-family:'Open Sans',Helvetica,Arial,"游ゴシック","YuGothic","ヒラギノ角ゴ ProN W3","Hiragino Kaku Gothic ProN","メイリオ",Meiryo,Osaka,"ＭＳ Ｐゴシック","MS PGothic",sans-serif;margin:0 0 1.75rem}.page-links a,.page-links>span{border:1px solid #d1d1d1;display:inline-block;font-size:.7rem;height:1.85rem;line-height:1.69rem;margin-right:.31rem;text-align:center;padding:0 .5rem}.page-links a{background-color:#666;border-color:#666;color:#fff;text-decoration:none}.page-links a:hover,.page-links a:focus{background-color:#222;color:#fff}.page-links>.page-links-title{border:0;color:#1a1a1a;height:auto;margin:0;padding-right:.62rem;width:auto}.gallery-caption{display:block}.sticky{display:block}.bypostauthor{display:block}.screen-reader-text{clip:rect(1px,1px,1px,1px);width:1px;height:1px;overflow:hidden;position:absolute !important}.size-auto,.size-full,.size-large,.size-medium,.size-thumbnail{max-width:100%;height:auto}

diff --git a/style.css b/style.css
@@ -5,7 +5,7 @@ Theme URI: https://records.43d.jp/wp-theme/
 Author: Motohiro Sunouchi (43d)
 Author URI: http://about.me/snotch
 Description: 43d records is a WordPress theme for publishing sounds and photographs for field recordings.
-Version: 0.9.3
+Version: 0.9.4
 License: MIT License
 License URI: https://opensource.org/licenses/MIT
 Text Domain: 43d-records
@@ -48,61 +48,66 @@ p {
 }
 .p43d_records_show #main_menu li {
   width: 3rem;
-  height: 3rem;
+  height: 2rem;
   margin: 0 0 1px 0;
   position: relative;
   cursor: pointer;
-}
-.p43d_records_show #main_menu li img {
-  width: 100%;
-  height: 100%;
-  position: absolute;
-  -moz-opacity: 0.5;
-  -khtml-opacity: 0.5;
-  -webkit-opacity: 0.5;
-  opacity: 0.5;
-  -ms-filter: progid:DXImageTransform.Microsoft.Alpha(opacity=50);
-  filter: alpha(opacity=50);
-  -moz-transition-duration: 0.2s;
-  -webkit-transition-duration: 0.2s;
-  -o-transition-duration: 0.2s;
-  transition-duration: 0.2s;
-}
-.p43d_records_show #main_menu li:hover img,
-.p43d_records_show #main_menu li.active img {
-  -moz-opacity: 1;
-  -khtml-opacity: 1;
-  -webkit-opacity: 1;
-  opacity: 1;
-  -ms-filter: progid:DXImageTransform.Microsoft.Alpha(opacity=100);
-  filter: alpha(opacity=100);
-}
-.p43d_records_show #main_menu li::before {
-  content: "";
-  margin: 0;
-  width: 100%;
-  height: 100%;
-  position: absolute;
+  font-size: 0.6rem;
+  padding: 0.6rem 0 0 0.4rem;
+  color: #000;
+  box-sizing: border-box;
   background-color: #fff;
-  -moz-opacity: 0.5;
-  -khtml-opacity: 0.5;
-  -webkit-opacity: 0.5;
-  opacity: 0.5;
-  -ms-filter: progid:DXImageTransform.Microsoft.Alpha(opacity=50);
-  filter: alpha(opacity=50);
+  -moz-opacity: 0.8;
+  -khtml-opacity: 0.8;
+  -webkit-opacity: 0.8;
+  opacity: 0.8;
+  -ms-filter: progid:DXImageTransform.Microsoft.Alpha(opacity=80);
+  filter: alpha(opacity=80);
   -moz-transition-duration: 0.2s;
   -webkit-transition-duration: 0.2s;
   -o-transition-duration: 0.2s;
   transition-duration: 0.2s;
+  /*
+      width: 3rem;
+      height: 3rem;
+      margin: 0 0 1px 0;
+      position: relative;
+      cursor: pointer;
+      font-size: 0.7rem;
+
+      img {
+        width: 100%;
+        height: 100%;
+        position: absolute;
+        .opacity(0.5);
+        .transition-duration(0.2s);
+      }
+      &:hover img, &.active img {
+        .opacity(1);
+      }
+      &::before {
+        content: "";
+        margin: 0;
+        width: 100%;
+        height: 100%;
+        position: absolute;
+        background-color: #fff;
+        .opacity(0.5);
+        .transition-duration(0.2s);
+      }
+      &:hover::before, &.active::before {
+        .opacity(0.9);
+      }
+      */
 }
-.p43d_records_show #main_menu li:hover::before,
-.p43d_records_show #main_menu li.active::before {
-  -moz-opacity: 0.9;
-  -khtml-opacity: 0.9;
-  -webkit-opacity: 0.9;
-  opacity: 0.9;
-  -ms-filter: progid:DXImageTransform.Microsoft.Alpha(opacity=90);
-  filter: alpha(opacity=90);
+.p43d_records_show #main_menu li:hover,
+.p43d_records_show #main_menu li.active {
+  -moz-opacity: 0.98;
+  -khtml-opacity: 0.98;
+  -webkit-opacity: 0.98;
+  opacity: 0.98;
+  -ms-filter: progid:DXImageTransform.Microsoft.Alpha(opacity=98);
+  filter: alpha(opacity=98);
 }
 .p43d_records_show #social {
   position: fixed;
@@ -859,6 +864,14 @@ p {
   }
 }
 @media (max-width: 768px) {
+  .p43d_records_show #ctrl_btns {
+    top: 0.4rem;
+    right: 0.4rem;
+  }
+  .p43d_records_show #ctrl_btns li {
+    width: 2.2rem;
+    height: 2.2rem;
+  }
   .p43d_records_show #ctrl_btns li:hover img.default {
     display: block;
   }
@@ -867,8 +880,23 @@ p {
   }
   .p43d_records_show #info_content,
   .p43d_records_show #menulist {
-    width: 100%;
-    bottom: 0;
+    width: auto;
+    min-width: 260px;
+    right: 0;
+  }
+  .p43d_records_show #info_content h2,
+  .p43d_records_show #menulist h2 {
+    padding-right: 1rem;
+    font-size: 0.7rem;
+  }
+  .p43d_records_show #info_content .close_btn,
+  .p43d_records_show #menulist .close_btn {
+    top: 0.5rem;
+    right: 0.5rem;
+  }
+  .p43d_records_show #info_content .inner_container,
+  .p43d_records_show #menulist .inner_container {
+    padding: 1rem 0.5rem 1rem;
   }
 }
 .hidden {

diff --git a/index.php b/index.php
@@ -104,14 +104,9 @@ while (have_posts()) :
   ?>
 
   <ul id="main_menu">
-    <li class="menulist" title="Menu"><img src="<?php echo esc_url(P43D_RECORDS_BASE_URL); ?>/img/icon_M.svg"
-                                           alt="blog menu"/></li>
-    <li class="infobox" title="Information"><img src="<?php echo esc_url(P43D_RECORDS_BASE_URL); ?>/img/icon_I.svg"
-                                                 alt="information"/>
-    </li>
-    <li class="timeline" title=""><img src="<?php echo esc_url(P43D_RECORDS_BASE_URL); ?>/img/icon_T.svg"
-                                       alt="timeline"/>
-    </li>
+    <li class="menulist" title="Menu">menu</li>
+    <li class="infobox" title="Content">content</li>
+    <li class="timeline" title="Timeline">timeline</li>
   </ul>
 
   <ul id="ctrl_btns">
@@ -158,14 +153,16 @@ while (have_posts()) :
 
         <?php if (strlen($p43d_records_latitude) > 0 && strlen($p43d_records_longitude) > 0) :
           $geo_str = p43d_records_geo_stringify($p43d_records_latitude, $p43d_records_longitude);
+          $maplink = 'https://maps.google.com/maps?z=12&amp;t=e'
+            . '&amp;ll=' . $p43d_records_latitude . ',' . $p43d_records_longitude
+            . '&amp;q=' . $p43d_records_latitude . ',' . $p43d_records_longitude;
           ?>
           <p class="geo info"><span
               class="label"><?php esc_html_e('Location', '43d-records'); ?></span><?php echo esc_html($geo_str); ?>
-            <a
-              href="https://maps.google.com/maps?z=12&amp;t=e&amp;ll=<?php echo $p43d_records_latitude . ',' . $p43d_records_longitude; ?>&amp;q=<?php echo $p43d_records_latitude . ',' . $p43d_records_longitude; ?>"
-              target="_blank" class="icon_link"><img class="geo_icon"
-                                                     src="<?php echo esc_url(P43D_RECORDS_BASE_URL); ?>/img/icon_geo.svg"
-                                                     alt="Google Maps"/></a></p>
+            <a href="<?php echo esc_url($maplink); ?>" target="_blank" class="icon_link"><img class="geo_icon"
+                                                                                              src="<?php echo esc_url(P43D_RECORDS_BASE_URL); ?>/img/icon_geo.svg"
+                                                                                              alt="Google Maps"/></a>
+          </p>
         <?php endif; ?>
 
         <?php if ($p43d_records_spec_mp3 !== false) : ?>
@@ -283,12 +280,12 @@ while (have_posts()) :
           echo ' hidden';
         } ?>" data-page="<?php echo $page; ?>" data-last="<?php echo $last_page ?>">
           <a href="<?php echo esc_url(admin_url('admin-ajax.php')); ?>?page=<?php if ($prev_page >= 0) {
-            echo $prev_page;
+            echo esc_url($prev_page);
           } ?>" class="recent<?php if ($page <= 0) {
             echo ' hidden';
           } ?>"><?php printf(__("&laquo; recent %d records", '43d-records'), $per_page); ?></a>
           <a href="<?php echo esc_url(admin_url('admin-ajax.php')); ?>?page=<?php if ($next_page <= $last_page) {
-            echo $next_page;
+            echo esc_url($next_page);
           } ?>" class="past<?php if ($page >= $last_page) {
             echo ' hidden';
           } ?>"><?php printf(__("past %d records &raquo;", '43d-records'), $per_page); ?></a>

diff --git a/functions.php b/functions.php
@@ -8,7 +8,7 @@
 if (!function_exists('p43d_records_setup')) {
 
   define('P43D_RECORDS_BASE_URL', esc_url(get_template_directory_uri()));
-  define('P43D_RECORDS_VERSION', '0.9.3');
+  define('P43D_RECORDS_VERSION', '0.9.4');
   define('P43D_RECORDS_WEBSITE', 'https://records.43d.jp/'); // for the credit and link
   define('P43D_RECORDS_LIST_NUM', intval(get_option('posts_per_page')));
 
@@ -40,7 +40,7 @@ if (!function_exists('p43d_records_setup')) {
   {
 
     wp_enqueue_style('43d-records-normalize', get_template_directory_uri() . '/css/normalize.min.css');
-    wp_enqueue_style('43d-records-style', get_template_directory_uri() . '/style.min.css', array(), P43D_RECORDS_VERSION);
+    wp_enqueue_style('43d-records-style', get_stylesheet_uri(), array(), P43D_RECORDS_VERSION);
 
     wp_enqueue_script('jquery');
     if (is_singular() && comments_open()) {
